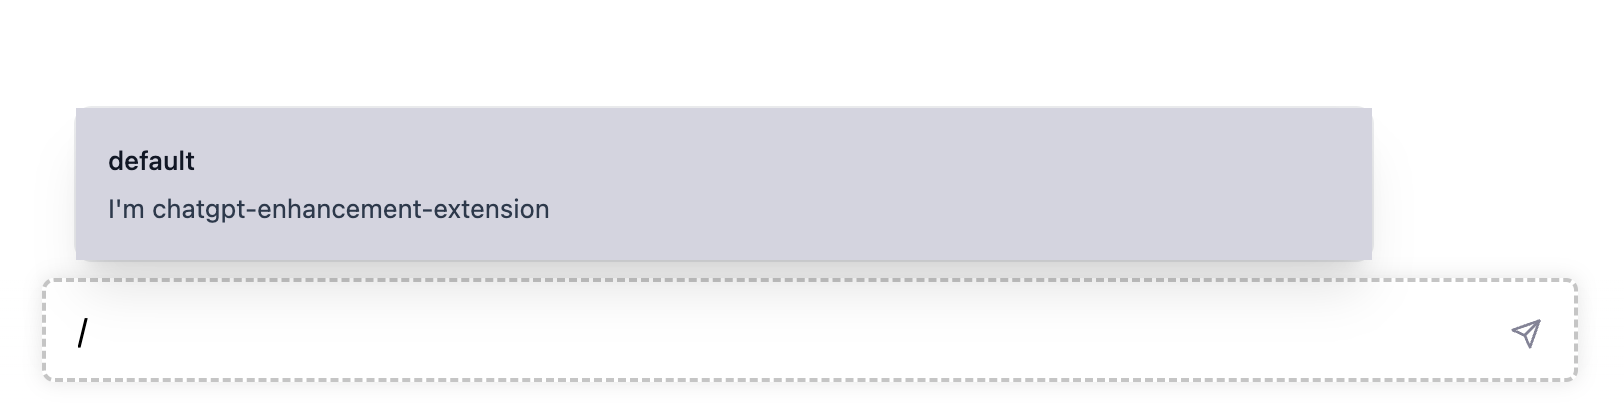
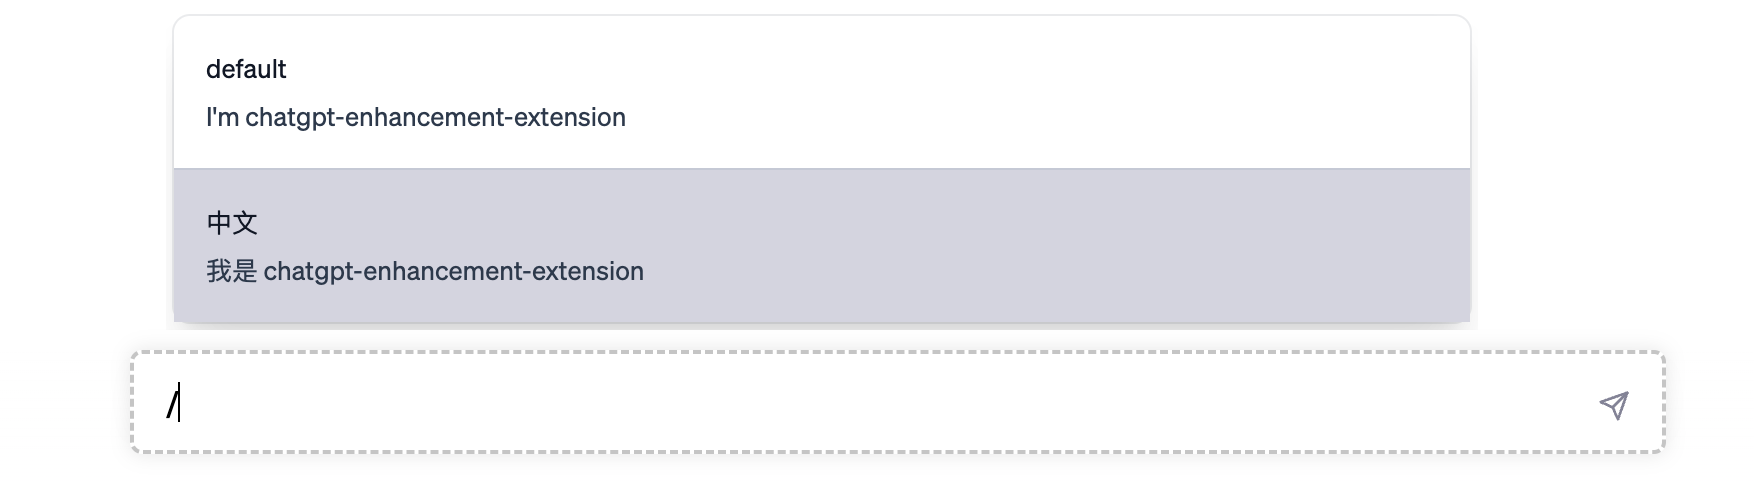
Update document

diff --git a/README.md b/README.md
@@ -4,14 +4,54 @@
 
 To provide additional features to enhance the ChatGPT experience, including converting replies to markdown strings, uploading files, and automatically asking questions based on regular expressions.
 
-## Display Markdown text instead of HTML results
+Features:
 
-For better copy experimence, especially for code block, here is an example:
+- [Prompt hint](#prompt-hint): type "/" in input area and see the hint
+- [PDF support](#pdf-support): Load PDF file and read page by page with [Regex Prompt Group](#regex-prompt-group)
+- [Markdown support](#markdown-support): Convert dialogues into markdown format
+- Save, Copy and Export: Copy, Save and Export dialogues by [injected button group](#injected-button-group).
+- [Admin Dashboard](#admin-dashboard): Easy to managem all in option page.
+
+## Prompt hint
+
+![](images/prompt-hint.gif)
+
+Type `Enter` to send prompt directly or `Tab` to edit it.
+
+## PDF Support
+
+Drag the PDF file into the textarea, then every page will generate a prompt automatically.
+
+![](images/overview-pdf.gif)
+
+Additional prompts will be added to the end of each page string based on the [Regex Prompt Group](#regex-prompt-group).
+
+### Regex Prompt Group
+
+![](images/reg-prompt-0.png)
+![](images/reg-prompt-1.png)
+
+## Markdown Support
+
 ![](images/preview.png)
 
-Copy/Export full page:
+### Injected Button Group
 
-![](images/sidebar-preview.png)
+![](images/injected-button-preview.png)
+
+## Admin Dashboard
+
+Prompt hints:
+
+![](images/dashboard-0.png)
+
+Regex prompt groups:
+
+![](images/dashboard-1.png)
+
+Saved dialogue history:
+
+![](images/dashboard-2.png)
 
 ## Load PDF and prompting questions based on regexp
 
@@ -19,15 +59,9 @@ Copy/Export full page:
 - Step 2. Drop a PDF file in the textarea
 - Step 3. Wait for response
 
-![](images/overview-pdf.gif)
-
 Manage multiple regex-prompt group in option page:
 
 ![](images/options-preview-2.png)
-
-## Prompt Hint
-
-![](images/type-prompt.png)
 
 # How to install
 
@@ -35,14 +69,11 @@ Manage multiple regex-prompt group in option page:
 
 > currently pending review
 
-## Install locally
-
-```
-git clone --depth=1 https://github.com/sailist/chatgpt-markdown-extension
-```
+## Install from crx
 
 In Chrome/Arc/Edge browser:
 
+- [download dist.crx](./dist.crx)
 - Go to the extensions management page
 - Turn on `Developer mode`
 - Click on `Load unpacked` among the buttons that appear
@@ -51,6 +82,17 @@ In Chrome/Arc/Edge browser:
 
 > If you have any question about load extension, try asking ChatGPT
 
+# Development
+
+```
+git clone --depth=1 https://github.com/sailist/chatgpt-enhancement-extension/
+cd chatgpt-enhancement-extension
+npm install
+npm run dev
+
+# load ./dist in Chrome browser
+```
+
 # Acknowledge
 
-Thanks for the [chrome-extension-typescript-starter](https://github.com/chibat/chrome-extension-typescript-starter) scanfold and ChatGPT ❤.
+Thanks for the [chrome-extension-boilerplate-react-vite](https://github.com/Jonghakseo/chrome-extension-boilerplate-react-vite) scanfold and ChatGPT ❤.
